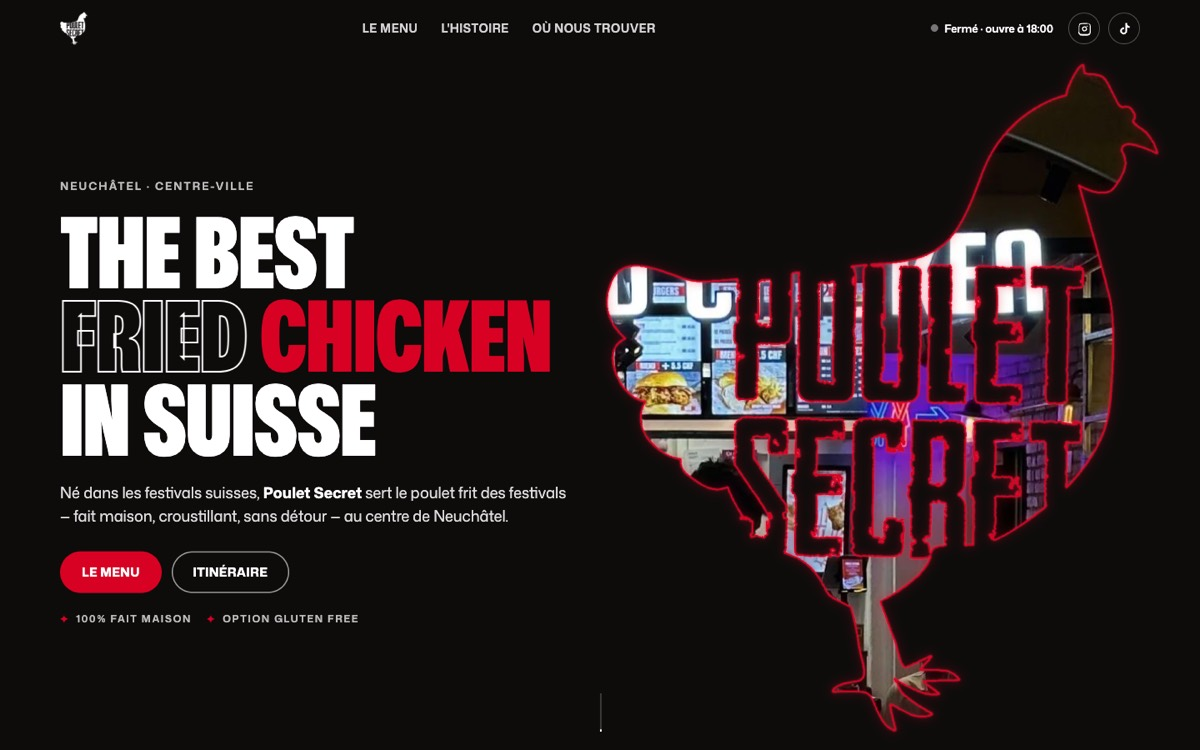
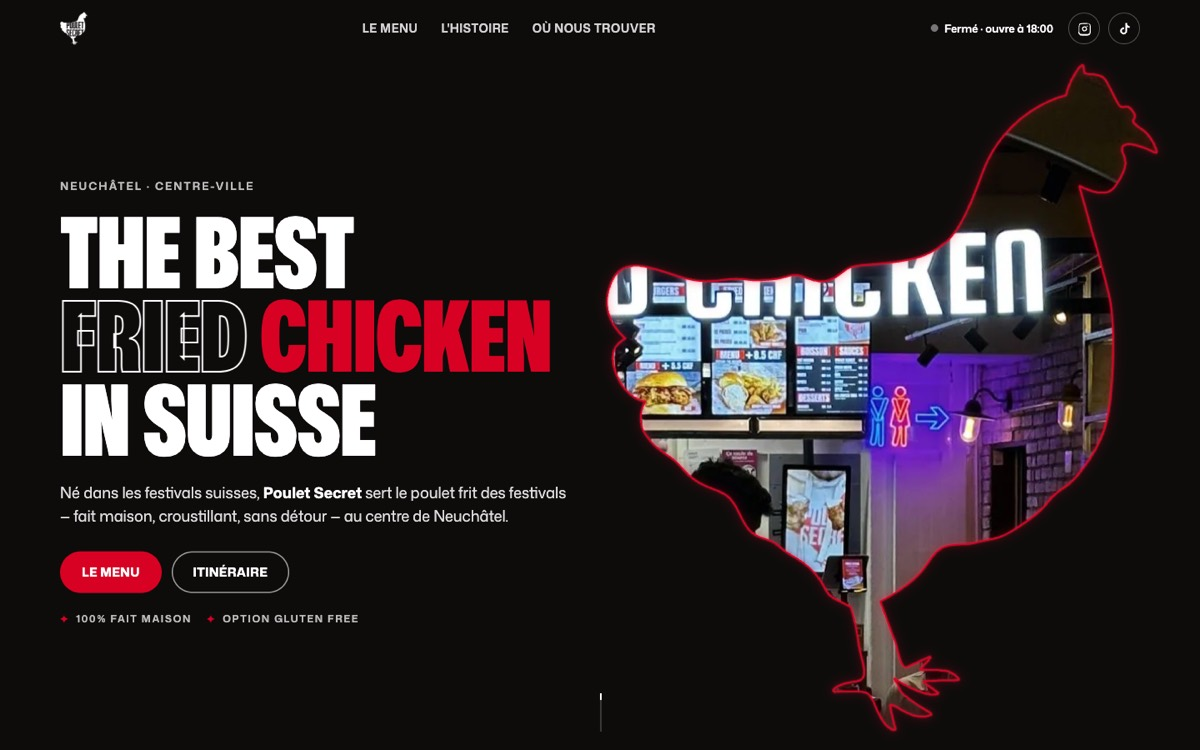
Poulet Secret: new hero thumbnail and description

Changed region(s): [[0.555, 0.3373, 0.925, 0.7667]]

diff --git a/index.html b/index.html
@@ -109,7 +109,7 @@ const groups = [
       shots: [{ img: 'letsmed', url: PAGES + 'letsmed-redesign/' }],
       links: [['Preview', PAGES + 'letsmed-redesign/'], ['Current site', 'https://letsmed.de'], ['Repo', GH + 'letsmed-redesign']] },
     { name: 'Poulet Secret', status: 'staging', date: '2026-11-03',
-      desc: 'Redesign pitch for pouletsecret.ch, fried chicken in Neuchâtel. You scroll in through the logo, the Secret du mois is built step by step, then the full menu and live opening hours.',
+      desc: 'Redesign pitch for pouletsecret.ch, fried chicken in Neuchâtel. You scroll in through the neon chicken, the Secret du mois is built step by step, each section slides over the last, then the full menu and live opening hours.',
       shots: [{ img: 'poulet', url: PAGES + 'poulet-secret/' }],
       links: [['Preview', PAGES + 'poulet-secret/'], ['Audit', PAGES + 'poulet-secret/audit.html'], ['Current site', 'https://pouletsecret.ch'], ['Repo', GH + 'poulet-secret']] },
     { name: 'HECPro', status: 'staging', date: '2026-10-13',
